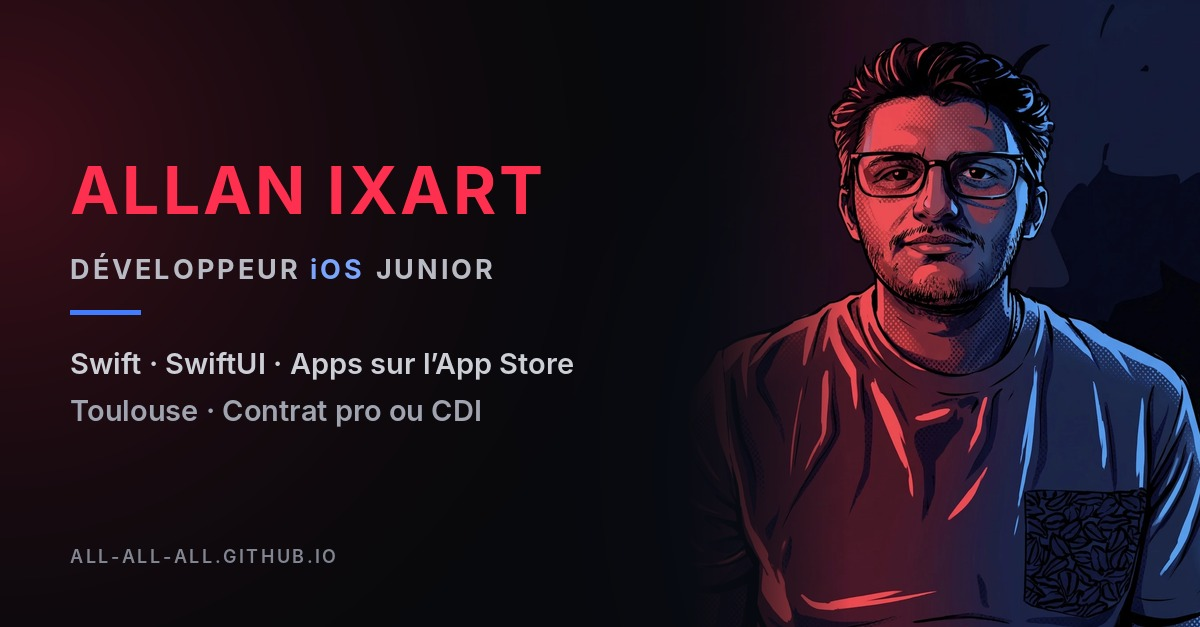
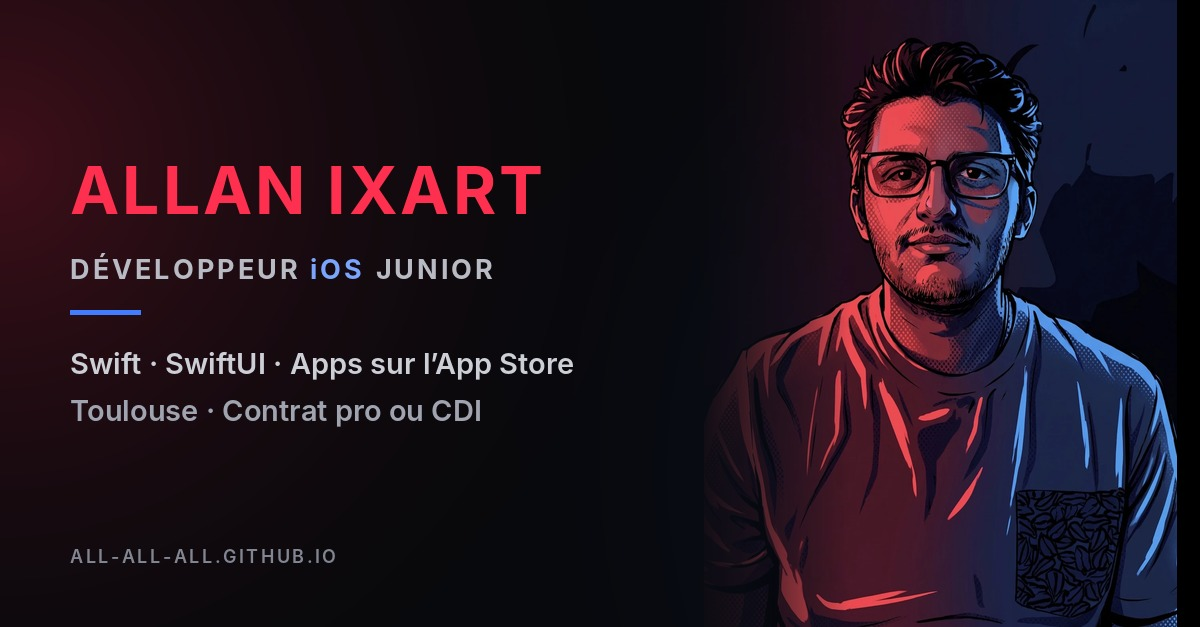
en cours.. changement image  OG

Changed region(s): [[0.5858, 0.0606, 1.0, 1.0], [0.9558, 0.0, 1.0, 0.4545], [0.8942, 0.0, 0.925, 0.0303]]

diff --git a/index.html b/index.html
@@ -63,7 +63,7 @@
   <meta property="og:title" content="Allan Ixart – Développeur iOS | Portfolio">
   <meta property="og:description"
     content="Développeur iOS junior à Toulouse, applications publiées sur l'App Store. Ouvert à un contrat pro ou un CDI.">
-  <meta property="og:image" content="https://all-all-all.github.io/Allan-Ixart-Portfolio-/og-image.jpg?v=2">
+  <meta property="og:image" content="https://all-all-all.github.io/Allan-Ixart-Portfolio-/og-image.jpg?v=3">
   <meta property="og:image:width" content="1200">
   <meta property="og:image:height" content="627">
   <meta property="og:type" content="website">
@@ -74,7 +74,7 @@
   <!-- mettre url du site -->
   <meta property="og:url" content="https://all-all-all.github.io/Allan-Ixart-Portfolio-/">
   <!--twitter reseaux sociaux -->
-  <meta name="twitter:image" content="https://all-all-all.github.io/Allan-Ixart-Portfolio-/og-image.jpg?v=2">
+  <meta name="twitter:image" content="https://all-all-all.github.io/Allan-Ixart-Portfolio-/og-image.jpg?v=3">
   <meta name="twitter:card" content="summary_large_image">
   <meta name="twitter:title" content="Allan Ixart – Développeur iOS | Portfolio">
   <meta name="twitter:description"
